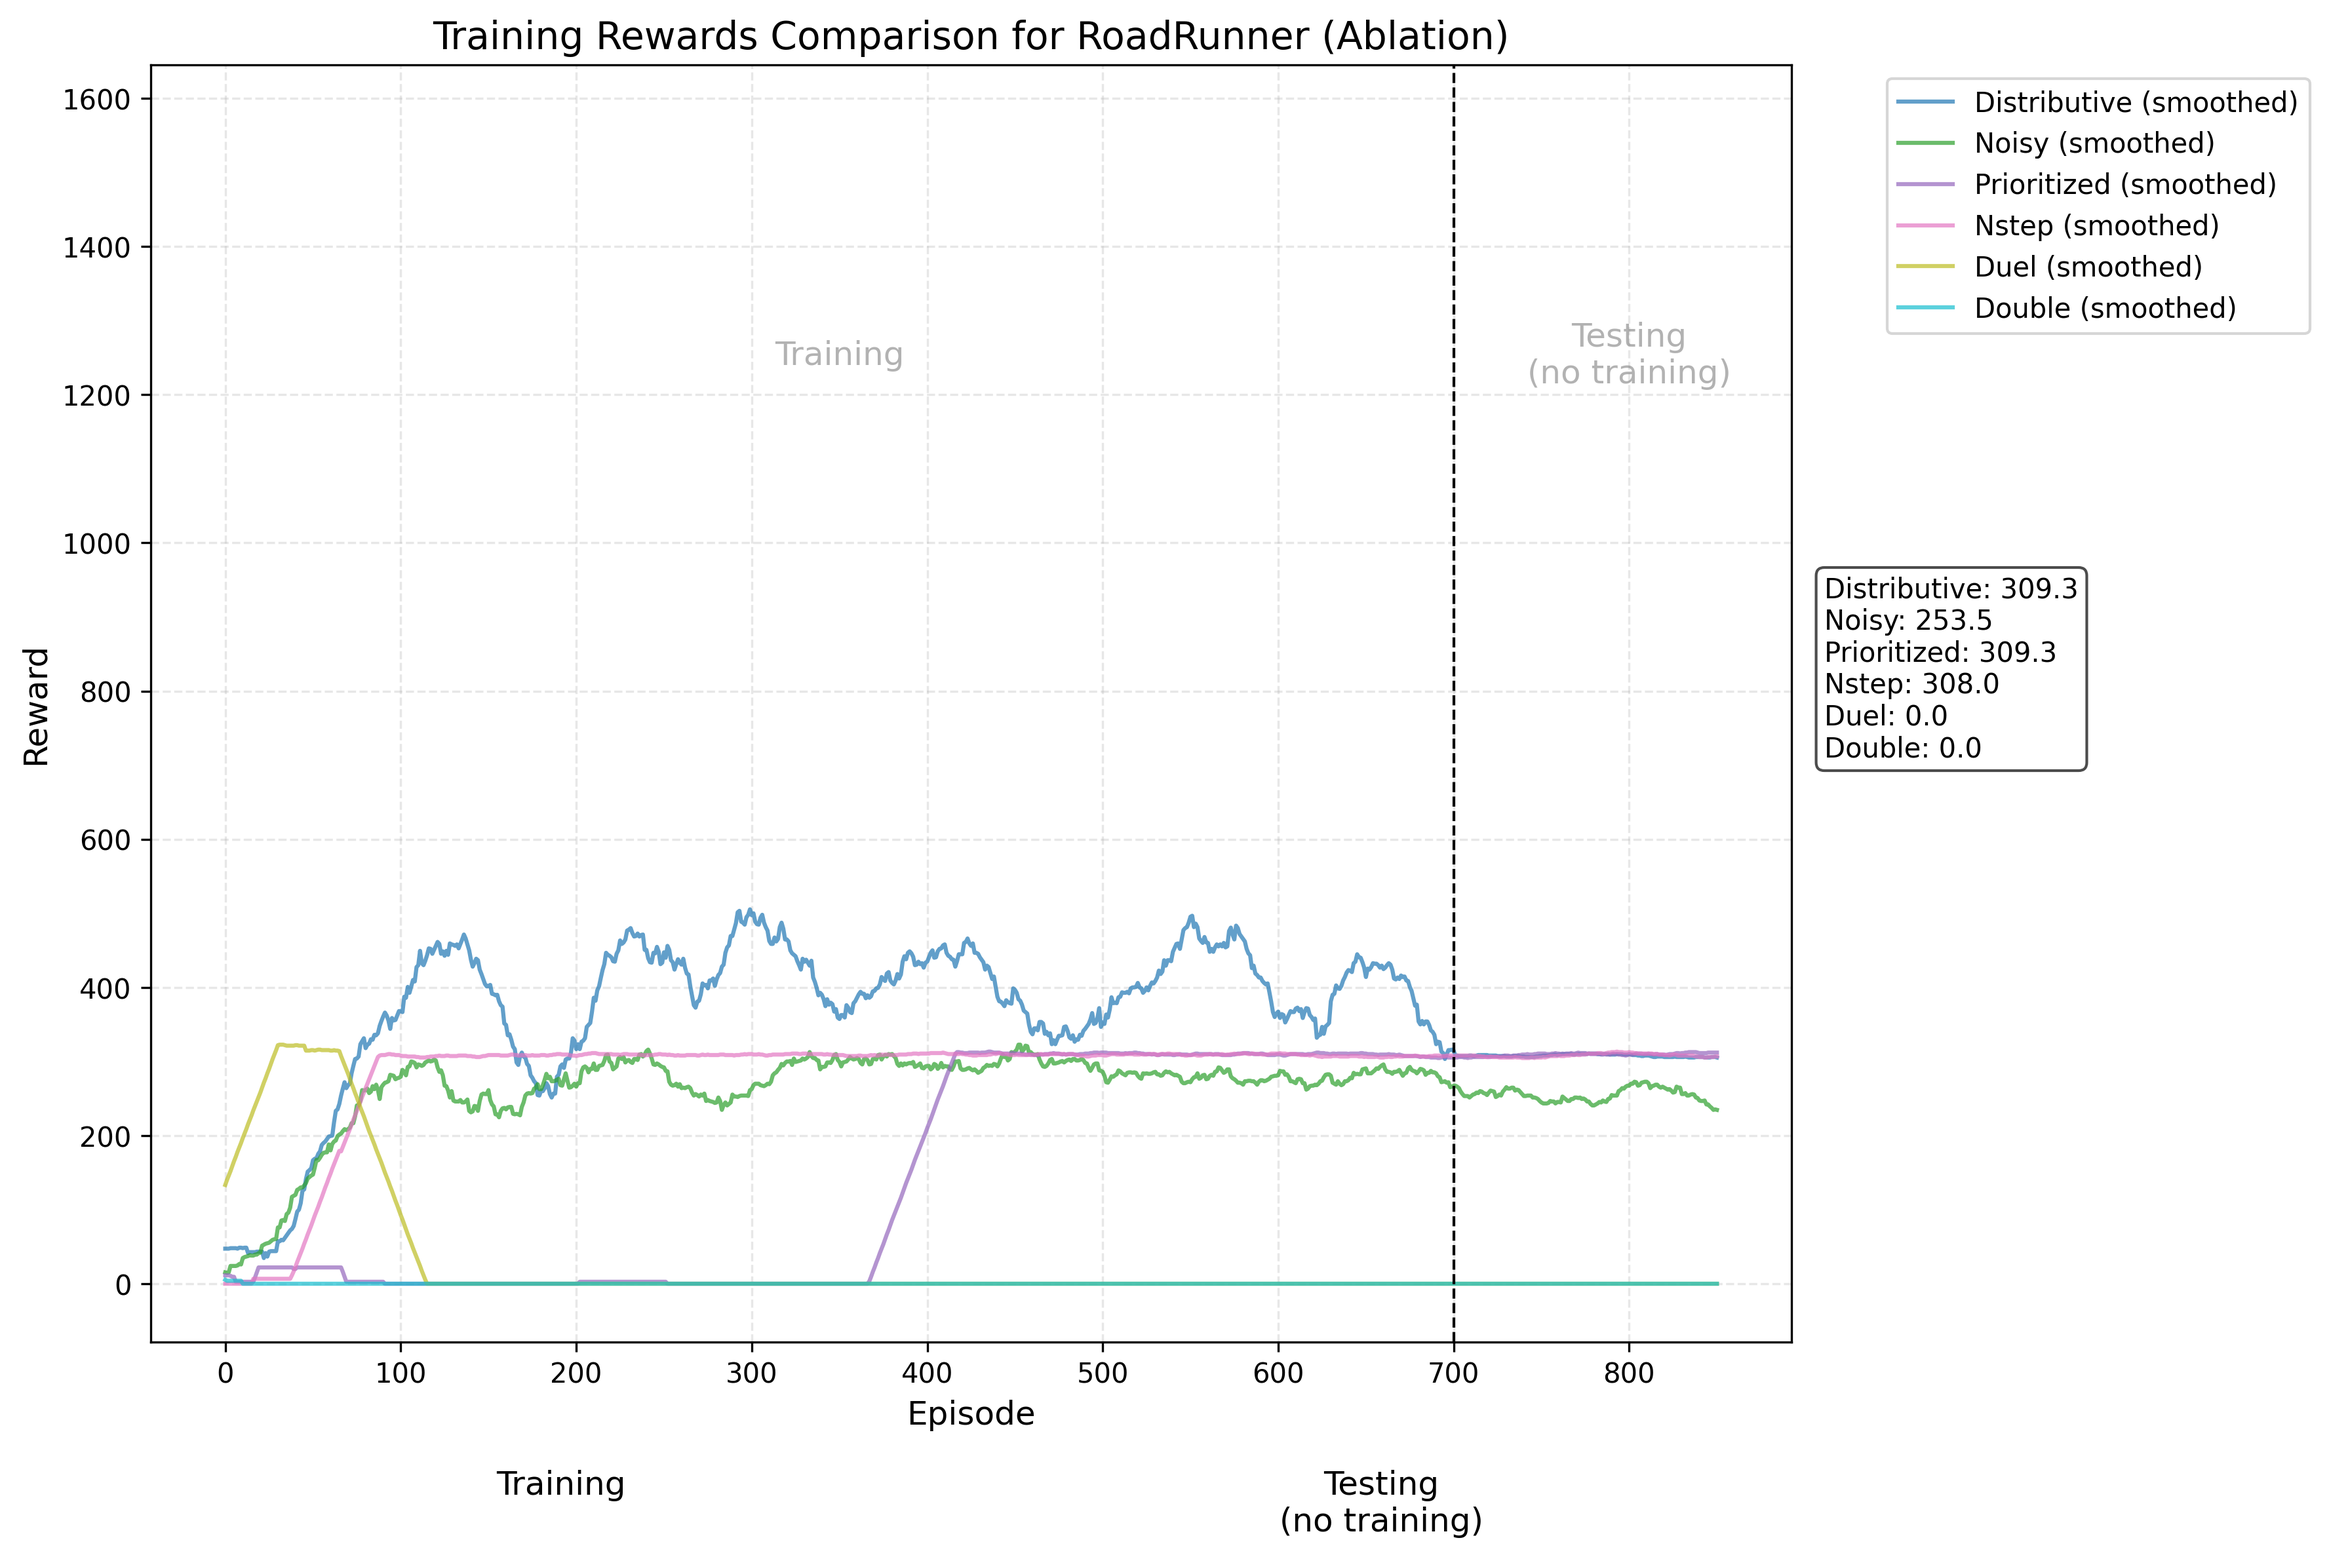
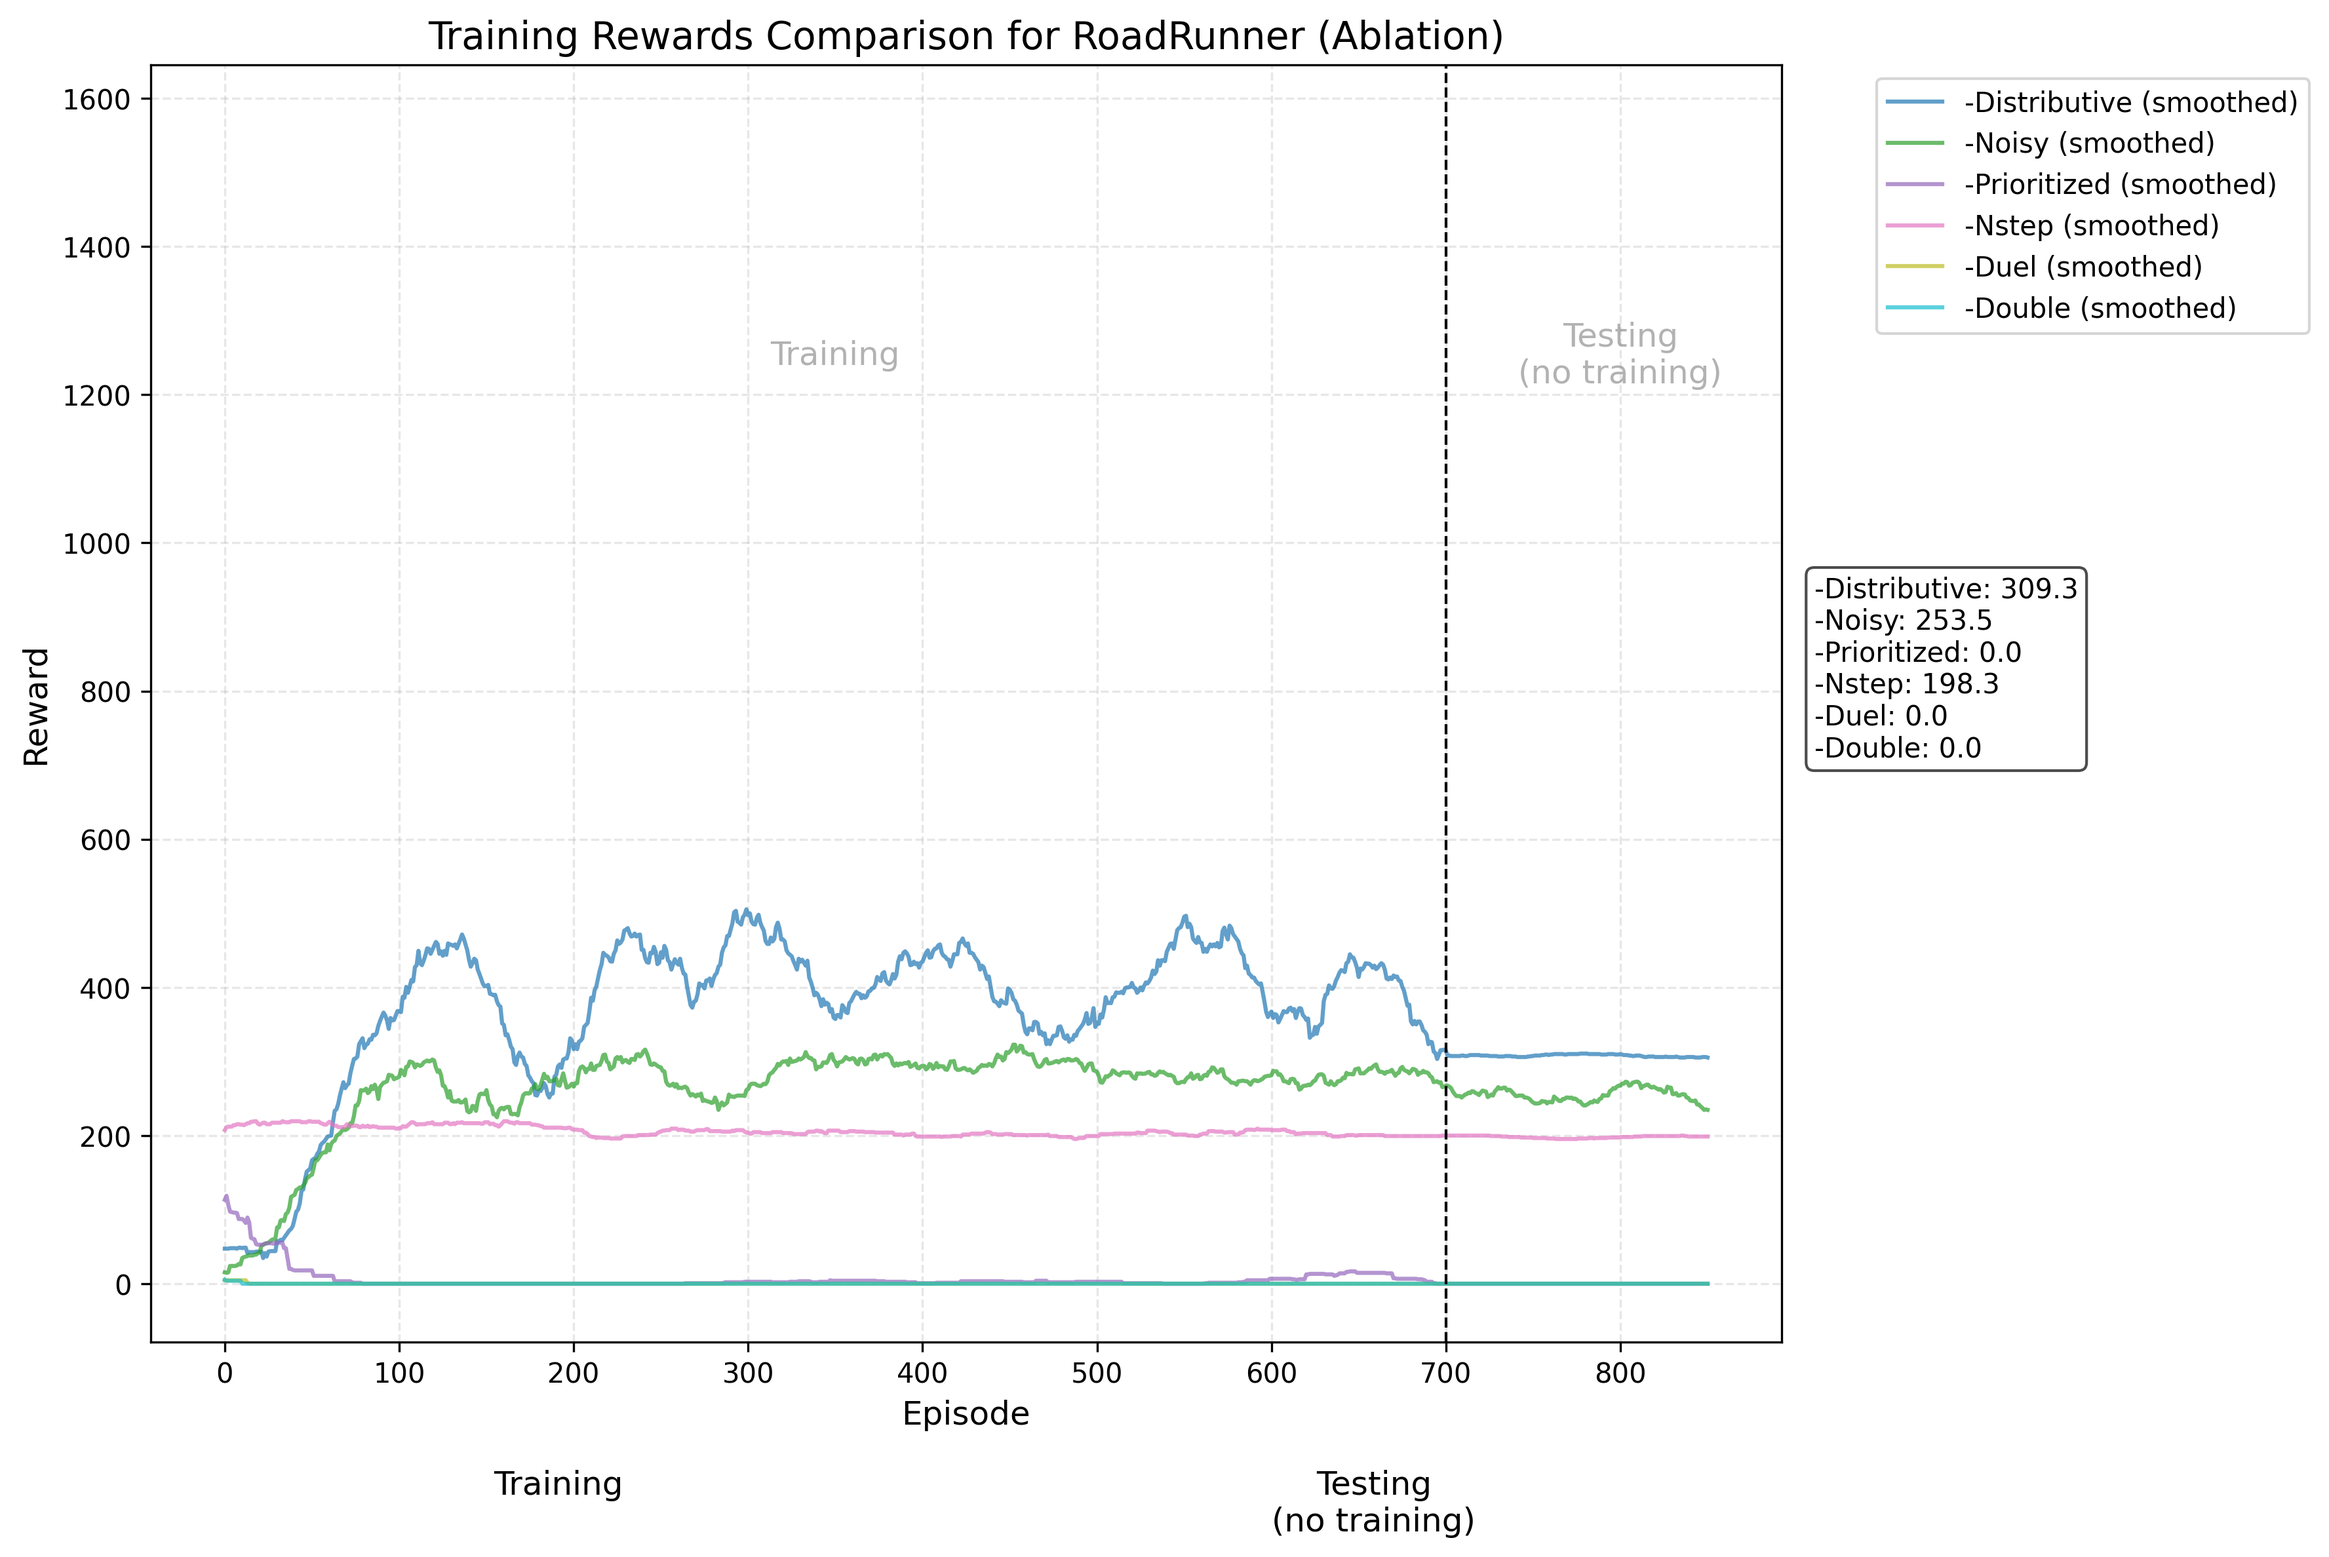
adam lr -> 1.5e-4 and RMS lr -> 2.5e-4 and adam epsilon is sligthly higher INSIDE COMBINEDagent

diff --git a/combined_agent.py b/combined_agent.py
@@ -84,7 +84,7 @@ class CombinedAgent:
             self.device = "cuda"
         if torch.mps.is_available():
             self.device = "mps"
-            
+
         print(self.device)
 
         if agent_config["usePrioritized"]:
@@ -167,15 +167,15 @@ class CombinedAgent:
 
         self.dqn_target.train(False)
 
-        if self.agent_config["usePrioritized"]:
+        if self.agent_config["usePrioritized"]: # any agents with PER must have RMS prop
             # Change optimizer to RMSprop
             self.optimizer = torch.optim.RMSprop(
                 self.dqn_network.parameters(),
-                lr=1e-3,  # Use higher learning rate with RMSprop
+                lr=2.5e-4,  # Use higher learning rate with RMSprop
                 alpha=0.95,
             )
         else:
-            self.optimizer = torch.optim.Adam(self.dqn_network.parameters(), lr=alpha)
+            self.optimizer = torch.optim.Adam(self.dqn_network.parameters(), lr=alpha) # default lr passed from params.py
 
         self.batch_size = batch_size
         self.testing = False
